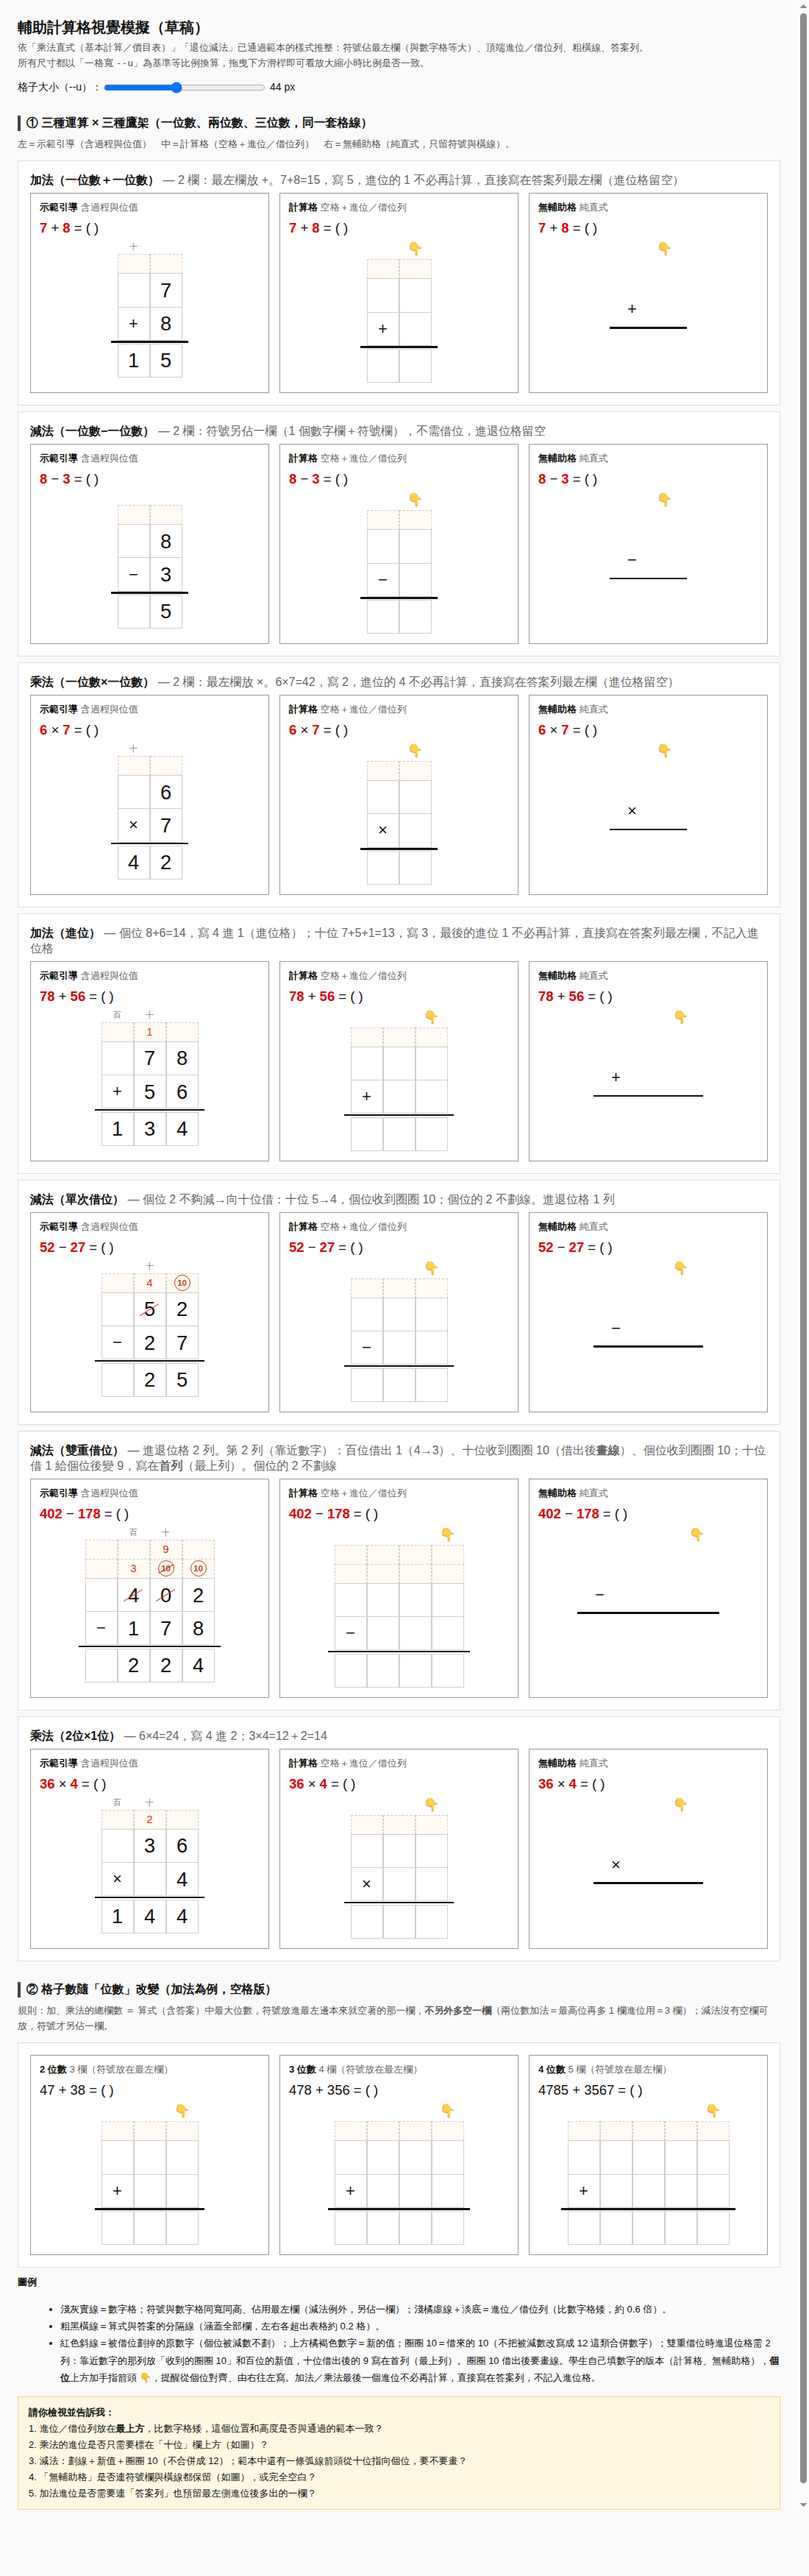
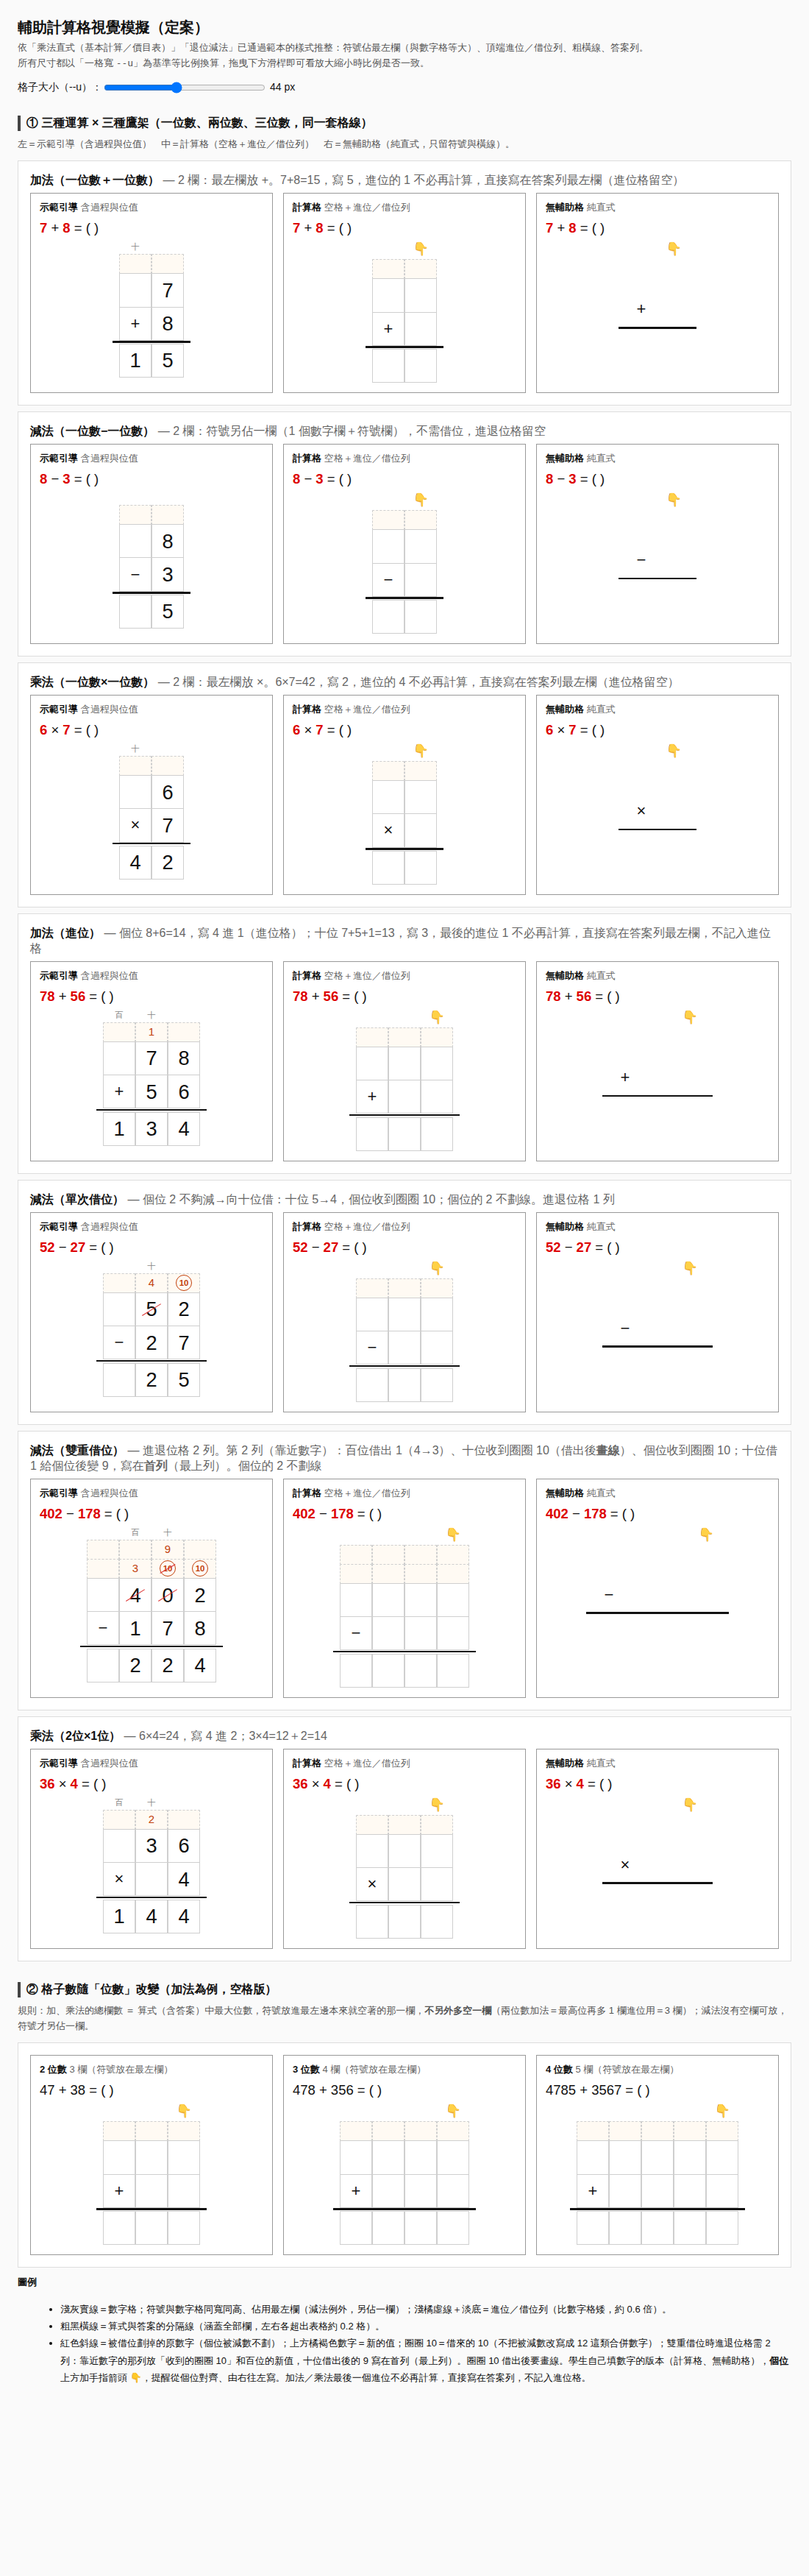
輔助計算格規範定案，模擬移除待確認項目
Claude-Session: https://claude.ai/code/session_012BHGRHE4qZD94g5LRgTFdn

diff --git a/docs/calc-grid-mock.html b/docs/calc-grid-mock.html
@@ -61,7 +61,7 @@
 </style>
 </head>
 <body>
-<h1>輔助計算格視覺模擬（草稿）</h1>
+<h1>輔助計算格視覺模擬（定案）</h1>
 <p class="note">依「乘法直式（基本計算／價目表）」「退位減法」已通過範本的樣式推整：符號佔最左欄（與數字格等大）、頂端進位／借位列、粗橫線、答案列。<br>
 所有尺寸都以「一格寬 <code>--u</code>」為基準等比例換算，拖曳下方滑桿即可看放大縮小時比例是否一致。</p>
 
@@ -84,14 +84,6 @@
   </ul>
 </div>
 
-<div class="todo">
-  <b>請你檢視並告訴我：</b><br>
-  1. 進位／借位列放在<b>最上方</b>，比數字格矮，這個位置和高度是否與通過的範本一致？<br>
-  2. 乘法的進位是否只需要標在「十位」欄上方（如圖）？<br>
-  3. 減法：劃線＋新值＋圈圈 10（不合併成 12）；範本中還有一條弧線箭頭從十位指向個位，要不要畫？<br>
-  4. 「無輔助格」是否連符號欄與橫線都保留（如圖），或完全空白？<br>
-  5. 加法進位是否需要連「答案列」也預留最左側進位後多出的一欄？
-</div>
 
 <script>
 /* 產生一組計算格。cfg:

diff --git a/docs/輔助計算格規範.md b/docs/輔助計算格規範.md
@@ -1,50 +1,78 @@
-# 輔助計算格規範（草稿）
+# 輔助計算格規範
 
-> 狀態：草稿。「現況」欄依 `assets/mul2x1_basic_grid_sample.pdf` 實際版面整理；標示 **【待確認】** 的項目是建議值或生成程式碼無法從本 repo 驗證，請老師確認後定案。
-> 本 repo 為前端，計算格實際繪製在 PDF／Word 生成程式；定案後請同步回生成程式。
+> 狀態：**定案（2026-09-29）**。視覺依據：`docs/calc-grid-mock.html`（可互動縮放）與 `docs/calc-grid-mock.png`。
+> 適用：直式加、減、乘（一位數～三位數以上）。本 repo 為前端，實際繪製在 PDF／Word 生成程式；實作時以本規範與模擬圖為準。
 
 ## 1. 目的
 
-以直式計算格把「位值對齊」具象化，降低認知負荷，讓學生把注意力放在運算步驟而非排版。
+以直式計算格把「位值對齊」具象化，降低認知負荷，讓學生把注意力放在運算步驟，而非排版。
 
 ## 2. 三種鷹架層級（漸進撤除）
 
-| 層級 | 名稱 | 提供的支持 |
+| 層級 | 名稱 | 內容 |
 |---|---|---|
-| 1 | 示範引導 | 先看完整示範（連加→乘法對照），再自己算 |
-| 2 | 計算格 | 附位值格線與進位輔助格，學生填寫 |
-| 3 | 無輔助格 | 只有純直式，無格線 |
+| 1 | 示範引導 | 完整示範：數字、進位／借位過程、位值名稱（百、十）都已寫好，先看再算 |
+| 2 | 計算格 | 空格＋進位／借位列＋手指箭頭，學生自己填 |
+| 3 | 無輔助格 | 不畫格線，只留運算符號與粗橫線，學生自己填 |
 
-同一題型（如 N209D）應同時提供三種，老師依學生程度挑選；由 1 → 3 逐步撤除。
+同一題型應同時提供三種，老師依學生程度挑選，由 1 → 3 逐步撤除。
 
-## 3. 計算格版面（現況）
+## 3. 尺寸
 
-- **格線**：淺灰細線，每一位數一欄；不搶運算符號與橫線的視覺。
-- **位值對齊**：格子由右往左為個、十、百位，數字靠右對齊。
-- **運算符號**：`×`、`+` 放在最左側獨立格。
-- **結果橫線**：粗黑實線，位於被乘數／乘數與答案之間，清楚分隔「算式」與「答案」。
-- **答案列**：橫線下方預留一列空格，欄數＝可能的最大位數。
-- **排列**：每頁 9 題（3×3），每題外框獨立、題號用圈號（❶❷❸…），題目寫在格子上方，如 `50×8 = (   )`。
-- 版頭：單元名稱、姓名欄；頁尾：教室標示與頁碼。
+- 所有尺寸都以「一個數字格的寬」為基準（`--u`）**等比例換算**，不固定絕對數值；實際大小參考已通過範本後等比縮放。
+- 數字格寬＝1u、高≈1.05u；進位／借位列高≈0.6u；符號格與數字格等大。
+- 格線：淺灰細線（線寬約 0.02u）；進位／借位列為淺橘虛線＋淡底。
+- 結果橫線：粗黑線（約 0.06u），涵蓋全部欄，**左右各超出表格約 0.2u**。
 
-## 4. 規範項目（建議）
+## 4. 欄數規則（依位數）
 
-1. **欄數規則**【待確認】：欄數 = 乘積最大位數 + 1 個運算符號欄。
-2. **進位輔助格**【待確認】：「計算格」層級在各位數上方提供小進位格；「無輔助格」不提供。
-3. **色彩**：格線用淺灰、重點（示範中被強調的算式、箭頭）用淡色底，不用高彩度色，避免干擾。
-4. **黑白列印**：所有輔助資訊在黑白列印下仍可辨識（不得只靠顏色區分）。
-5. **格子尺寸**【待確認】：格寬須夠學生手寫一位數字，建議不小於 8 mm；目前值待從生成程式讀出。
-6. **一致性**：加、減、乘、除各題型共用同一套格線樣式與符號位置，換題型學生不必重新適應。
+| 運算 | 總欄數 | 符號位置 |
+|---|---|---|
+| 加法、乘法 | 算式（含答案）中最大位數（加法為「最高位再多 1 欄進位用」） | 放進最左邊本來就空著的那一欄，**不另外多一欄** |
+| 減法 | 被減數位數 ＋ 1 | 被減數佔滿所有數字欄，符號**另佔一欄** |
 
-## 5. 待老師決定
+例：7+8＝2 欄；47+38＝3 欄；478+356＝4 欄；4785+3567＝5 欄；8−3＝2 欄；52−27＝3 欄；402−178＝4 欄；36×4＝3 欄；6×7＝2 欄。
 
-- [ ] 格子實際尺寸與線寬（mm／pt）
-- [ ] 進位格的位置與樣式（格內小格？上方獨立列？）
-- [ ] 除法、加減法是否沿用同一格線標準
-- [ ] 是否需要「大字版」（視覺弱勢學生）
+## 5. 版面結構（由上而下）
 
-## 6. 版本紀錄
+1. （學生填寫版）**手指箭頭 👇：只放在個位上方**，提醒從個位對齊、由右往左寫；其他位數、符號欄不放。
+2. （示範版）位值名稱：只標「百、十（、千）」，**個位不標**。
+3. 進位／借位列（見第 6、7 節），無輔助格不畫。
+4. 算式列：被加（減、乘）數、符號＋第二個數。
+5. 粗橫線。
+6. 答案列：欄數同上。
+
+## 6. 進位規則（加、乘）
+
+- 進位數字寫在**下一位的上方**（進位格），只標需要再與其他數計算的進位；乘法進位標在十位上方。
+- **最後一個進位若不必再與其他數計算，直接寫在答案列最左欄，不記入進位格。**
+  例：78+56，十位 7+5+1＝13，寫 3，最後進位的 1 直接寫在答案列百位；進位格只留十位上方的 1。
+- 一位數加、乘（如 7+8、6×7）進位皆為「最後進位」，進位格留空；仍保留這一列，讓同一份學習單格線一致。
+
+## 7. 借位規則（減）
+
+- **借位數字不與被減數合併成 12 這類數字**；以「劃線＋新值＋圈圈 10」表達。
+- **單次借位**（進退位格 1 列）：被借位的數字劃線，上方寫新值（如 5→4）；個位上方寫圈圈 10；**個位的被減數不劃線**。
+- **雙重借位**（進退位格 **2 列**，如 402−178）：
+  - 第 2 列（靠近數字）：百位新值 3、十位圈圈 10（借出後**畫線**）、個位圈圈 10。
+  - 首列（最上列）：十位借 1 給個位後的 **9**，寫在十位圈圈 10 的正上方。
+  - 被借位的原數字（4、0）劃線；個位的 2 不劃線。
+- 進退位格 1 列或 2 列，依該題實際需借位次數決定；計算格空白版跟著畫出對應列數。
+- 不畫弧線箭頭。
+
+## 8. 無輔助格
+
+不畫格線與進位／借位列；保留運算符號、粗橫線，以及個位上方的手指箭頭。
+
+## 9. 一致性與無障礙
+
+- 加、減、乘共用同一套格線、符號與橫線樣式，換題型不必重新適應。
+- 黑白列印下仍可辨識：不只靠顏色區分（劃線、圈圈、位置皆有形狀差異）。
+- 目前不提供大字版。
+
+## 10. 版本紀錄
 
 | 日期 | 內容 |
 |---|---|
-| 2026-09-29 | 依乘法直式（N209D）範例 PDF 建立草稿 |
+| 2026-09-29 | 草稿：依乘法直式（N209D）範例 PDF 建立 |
+| 2026-09-29 | 定案：依視覺模擬確認欄數、進退位、手指箭頭等規則 |
